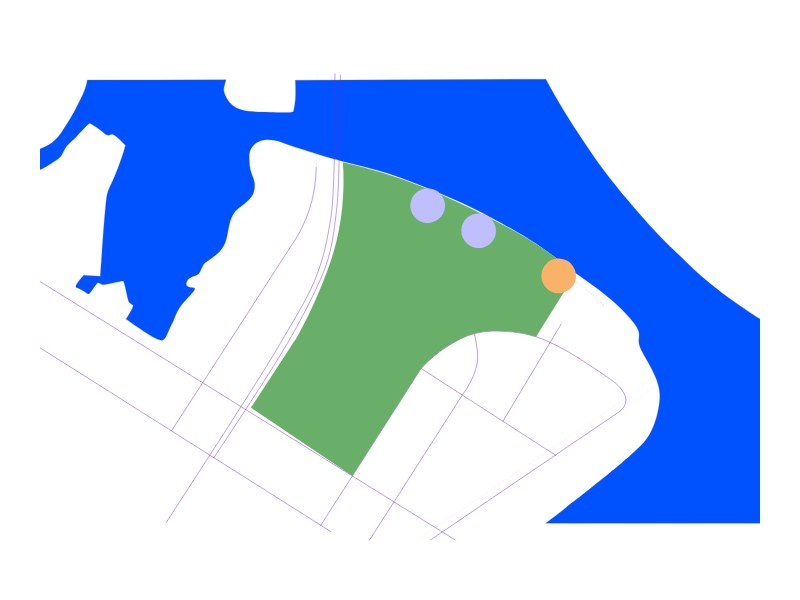
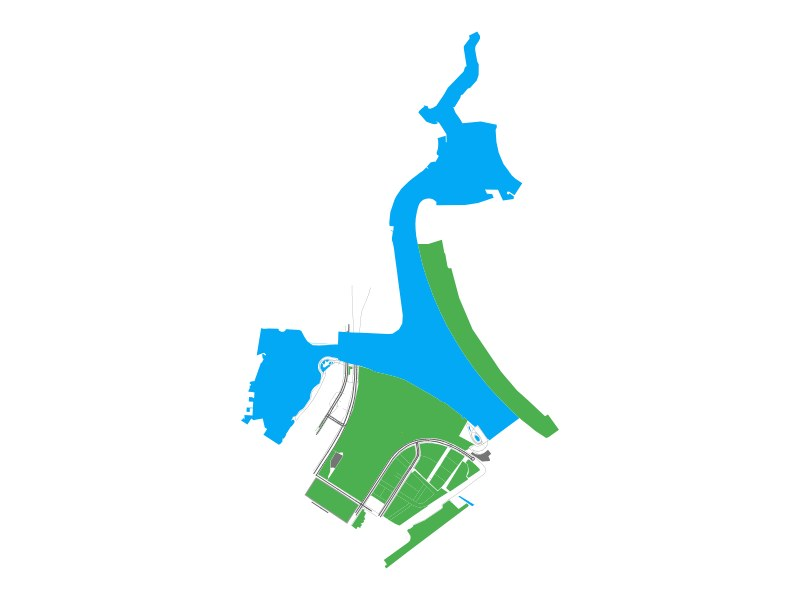
Expand page-01/04 image height, re-fetch Gardens by the Bay diagram
Image height 240px -> 320px per frame on pages 01 and 04 -- there was
150+px of unused space below even the longest quote/check-list, so grow
the (still pixel-locked, still aligned) frames to use it instead of
leaving it empty.

Gardens by the Bay's precedent SVG predated the 2026-08-14 "line vs
area" geometry fix in fetch_park_precedent.py, so its street/pedestrian-
path data existed but rendered as near-invisible unfilled strokes at
thumbnail scale -- looked like a mostly-empty diagram on page 05's grid.
Re-fetched with force=True through the current pipeline (100 streets,
583 pedestrian paths, 59 green-space features now render visibly) and
regenerated its thumbnail.

diff --git a/html/final_deck.html b/html/final_deck.html
@@ -397,12 +397,12 @@
                         <div class="case-phase-tag" style="margin-bottom:2px;">Formal System &#8596; Informal Reception</div>
                         <h3 style="margin-bottom:2px;">Bottega Louie</h3>
                         <h2 style="margin-bottom:8px;">Commercial Interior &middot; Los Angeles</h2>
-                        <div class="ph grow crossfade3" style="flex: 0 0 240px; overflow:hidden; margin-bottom:6px;">
+                        <div class="ph grow crossfade3" style="flex: 0 0 320px; overflow:hidden; margin-bottom:6px;">
                             <img src="../archive/reference_images/BottegaLouie/bottega_louie_ref_10.jpg">
                             <img src="../archive/reference_images/BottegaLouie/bottega_louie_ref_7.jpg">
                             <img src="../archive/reference_images/BottegaLouie/8368f423-3a98-456b-bfa9-b661efd009ac.jpg">
                         </div>
-                        <div class="ph grow crossfade" style="flex: 0 0 240px; overflow:hidden;">
+                        <div class="ph grow crossfade" style="flex: 0 0 320px; overflow:hidden;">
                             <img class="cf-source" src="../archive/render_output/bottegaLouieInterior/ViewCapture20260817_163017.png">
                             <img class="cf-rendered" src="../archive/render_output/bottegaLouieInterior/bottegaInterior01.jpg">
                         </div>
@@ -417,12 +417,12 @@
                         <div class="case-phase-tag" style="margin-bottom:2px;">Formal System &#8596; Bounded Autonomy</div>
                         <h3 style="margin-bottom:2px;">Nakagin Capsule Tower</h3>
                         <h2 style="margin-bottom:8px;">Kisho Kurokawa &middot; Tokyo &middot; 1972</h2>
-                        <div class="ph grow crossfade3" style="flex: 0 0 240px; overflow:hidden; margin-bottom:6px;">
+                        <div class="ph grow crossfade3" style="flex: 0 0 320px; overflow:hidden; margin-bottom:6px;">
                             <img src="../archive/reference_images/nakaginCapsuleTower/2362d526d98b4e9d982ec03b92f753db.f5fb7444.jpg">
                             <img src="../archive/reference_images/nakaginCapsuleTower/Nakagin.jpg">
                             <img src="../archive/reference_images/nakaginCapsuleTower/where-are-the-23-modules-saved-from-the-demolished-nakagin-capsule-tower-now_1.jpg">
                         </div>
-                        <div class="ph grow crossfade" style="flex: 0 0 240px; overflow:hidden;">
+                        <div class="ph grow crossfade" style="flex: 0 0 320px; overflow:hidden;">
                             <img class="cf-source" src="../archive/render_output/Nakagin/nakaginRhinoScreenshot.png">
                             <img class="cf-rendered" src="../archive/render_output/Nakagin/unused/flux2_klein_00110_.png">
                         </div>
@@ -437,12 +437,12 @@
                         <div class="case-phase-tag" style="margin-bottom:2px;">Informal Agency &#8596; Formal Erasure</div>
                         <h3 style="margin-bottom:2px;">O.T. Johnson Building</h3>
                         <h2 style="margin-bottom:8px;">356 S. Broadway &middot; Los Angeles</h2>
-                        <div class="ph grow crossfade3" style="flex: 0 0 240px; overflow:hidden; margin-bottom:6px;">
+                        <div class="ph grow crossfade3" style="flex: 0 0 320px; overflow:hidden; margin-bottom:6px;">
                             <img src="../archive/reference_images/ot_johnson/ot_johnson_ref_1.png">
                             <img src="../archive/reference_images/ot_johnson/ot_johnson_ref_3.png">
                             <img src="../archive/reference_images/ot_johnson/ot_johnson_ref_2.jpg">
                         </div>
-                        <div class="ph grow crossfade" style="flex: 0 0 240px; overflow:hidden;">
+                        <div class="ph grow crossfade" style="flex: 0 0 320px; overflow:hidden;">
                             <img class="cf-source" src="../archive/render_output/OTjohnsonExterior/ViewCapture20260817_162539.png">
                             <img class="cf-rendered" src="../archive/render_output/OTjohnsonExterior/flux2_klein_00101_.png">
                         </div>
@@ -660,10 +660,10 @@
                         <div class="case-phase-tag" style="margin-bottom:2px;">Postmodern Enclosure</div>
                         <h3 style="margin-bottom:2px;">Legorreta Campanile</h3>
                         <h2 style="margin-bottom:8px;">1994 Redesign &middot; Ricardo Legorreta</h2>
-                        <div class="ph grow" style="flex: 0 0 240px; overflow:hidden; margin-bottom:6px;">
+                        <div class="ph grow" style="flex: 0 0 320px; overflow:hidden; margin-bottom:6px;">
                             <img src="../archive/photos/02.5.jpg" style="width:100%; height:100%; object-fit:cover;">
                         </div>
-                        <div class="ph grow" style="flex: 0 0 240px; overflow:hidden;">
+                        <div class="ph grow" style="flex: 0 0 320px; overflow:hidden;">
                             <img src="../archive/photos/08.jpg" style="width:100%; height:100%; object-fit:cover;">
                         </div>
                         <div class="vignette" style="margin-top:12px;">&ldquo;The prevailing brutalist design, characterized by stark concrete forms and a sunken central plaza, is frequently cited as unwelcoming, lacking the lush greenery and comfortable amenities typically associated with a restful park.&rdquo;</div>
@@ -672,10 +672,10 @@
                         <div class="case-phase-tag" style="margin-bottom:2px;">Sacrificed to the Automobile</div>
                         <h3 style="margin-bottom:2px;">Subterranean Parking</h3>
                         <h2 style="margin-bottom:8px;">Five Levels Below Grade</h2>
-                        <div class="ph grow" style="flex: 0 0 240px; overflow:hidden; margin-bottom:6px;">
+                        <div class="ph grow" style="flex: 0 0 320px; overflow:hidden; margin-bottom:6px;">
                             <img src="../archive/photos/03.jpg" style="width:100%; height:100%; object-fit:cover;">
                         </div>
-                        <div class="ph grow" style="flex: 0 0 240px; overflow:hidden;">
+                        <div class="ph grow" style="flex: 0 0 320px; overflow:hidden;">
                             <img src="../archive/photos/111111.jpg" style="width:100%; height:100%; object-fit:cover;">
                         </div>
                         <div class="vignette" style="margin-top:12px;">&ldquo;The city&rsquo;s Original Sin at Pershing Square was sacrificing public space on the altar of the automobile, cutting it off from the pedestrian life of the street grid in favor of parking lot access and confusing, off-putting walls and changes in grade.&rdquo;</div>
@@ -684,10 +684,10 @@
                         <div class="case-phase-tag" style="margin-bottom:2px;">Isolated &amp; Underused</div>
                         <h3 style="margin-bottom:2px;">The Open Plaza</h3>
                         <h2 style="margin-bottom:8px;">Near-Zero Shade Canopy</h2>
-                        <div class="ph grow" style="flex: 0 0 240px; overflow:hidden; margin-bottom:6px;">
+                        <div class="ph grow" style="flex: 0 0 320px; overflow:hidden; margin-bottom:6px;">
                             <img src="../archive/photos/09.jpg" style="width:100%; height:100%; object-fit:cover;">
                         </div>
-                        <div class="ph grow" style="flex: 0 0 240px; overflow:hidden;">
+                        <div class="ph grow" style="flex: 0 0 320px; overflow:hidden;">
                             <img src="../archive/photos/04.jpg" style="width:100%; height:100%; object-fit:cover;">
                         </div>
                         <div class="vignette" style="margin-top:12px;">&ldquo;Spatially, the park&rsquo;s design creates a distinct separation from the surrounding street level, which some find contributes to a detached, almost isolated feeling. The limited shade and sometimes scarce, uncomfortable seating further deter prolonged stays, making it less a destination for leisure and more a transit point.&rdquo;</div>
